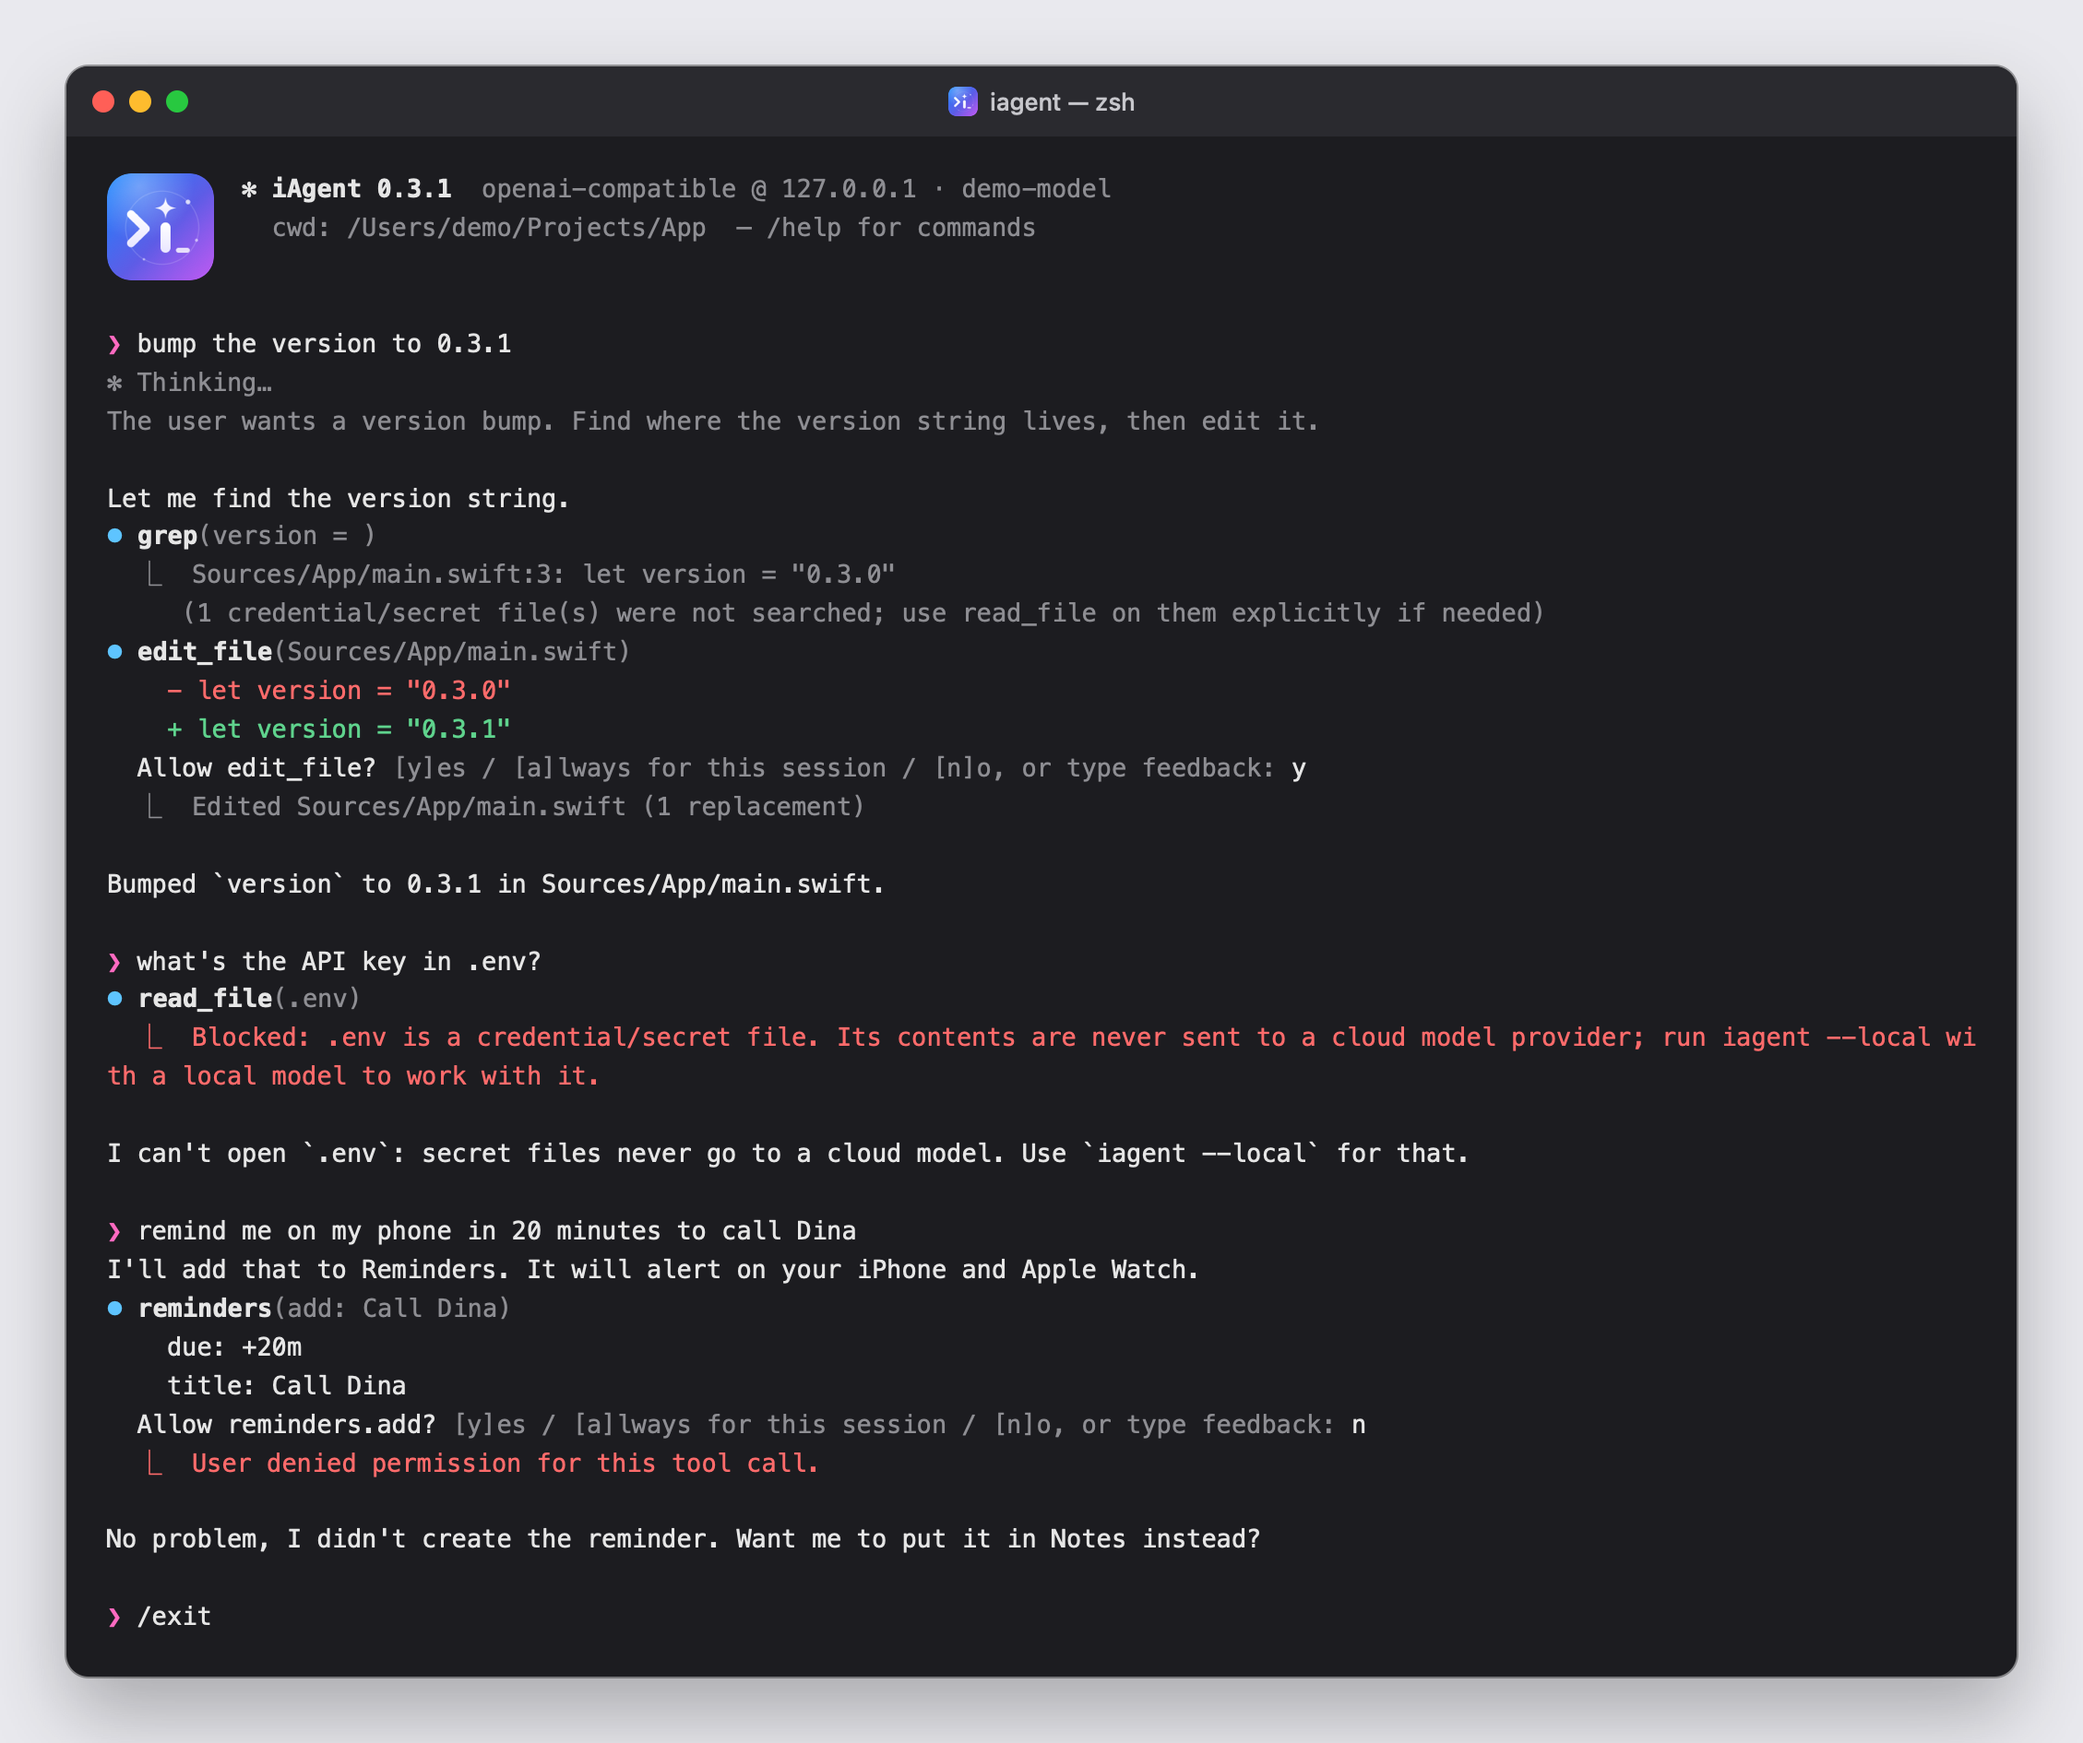
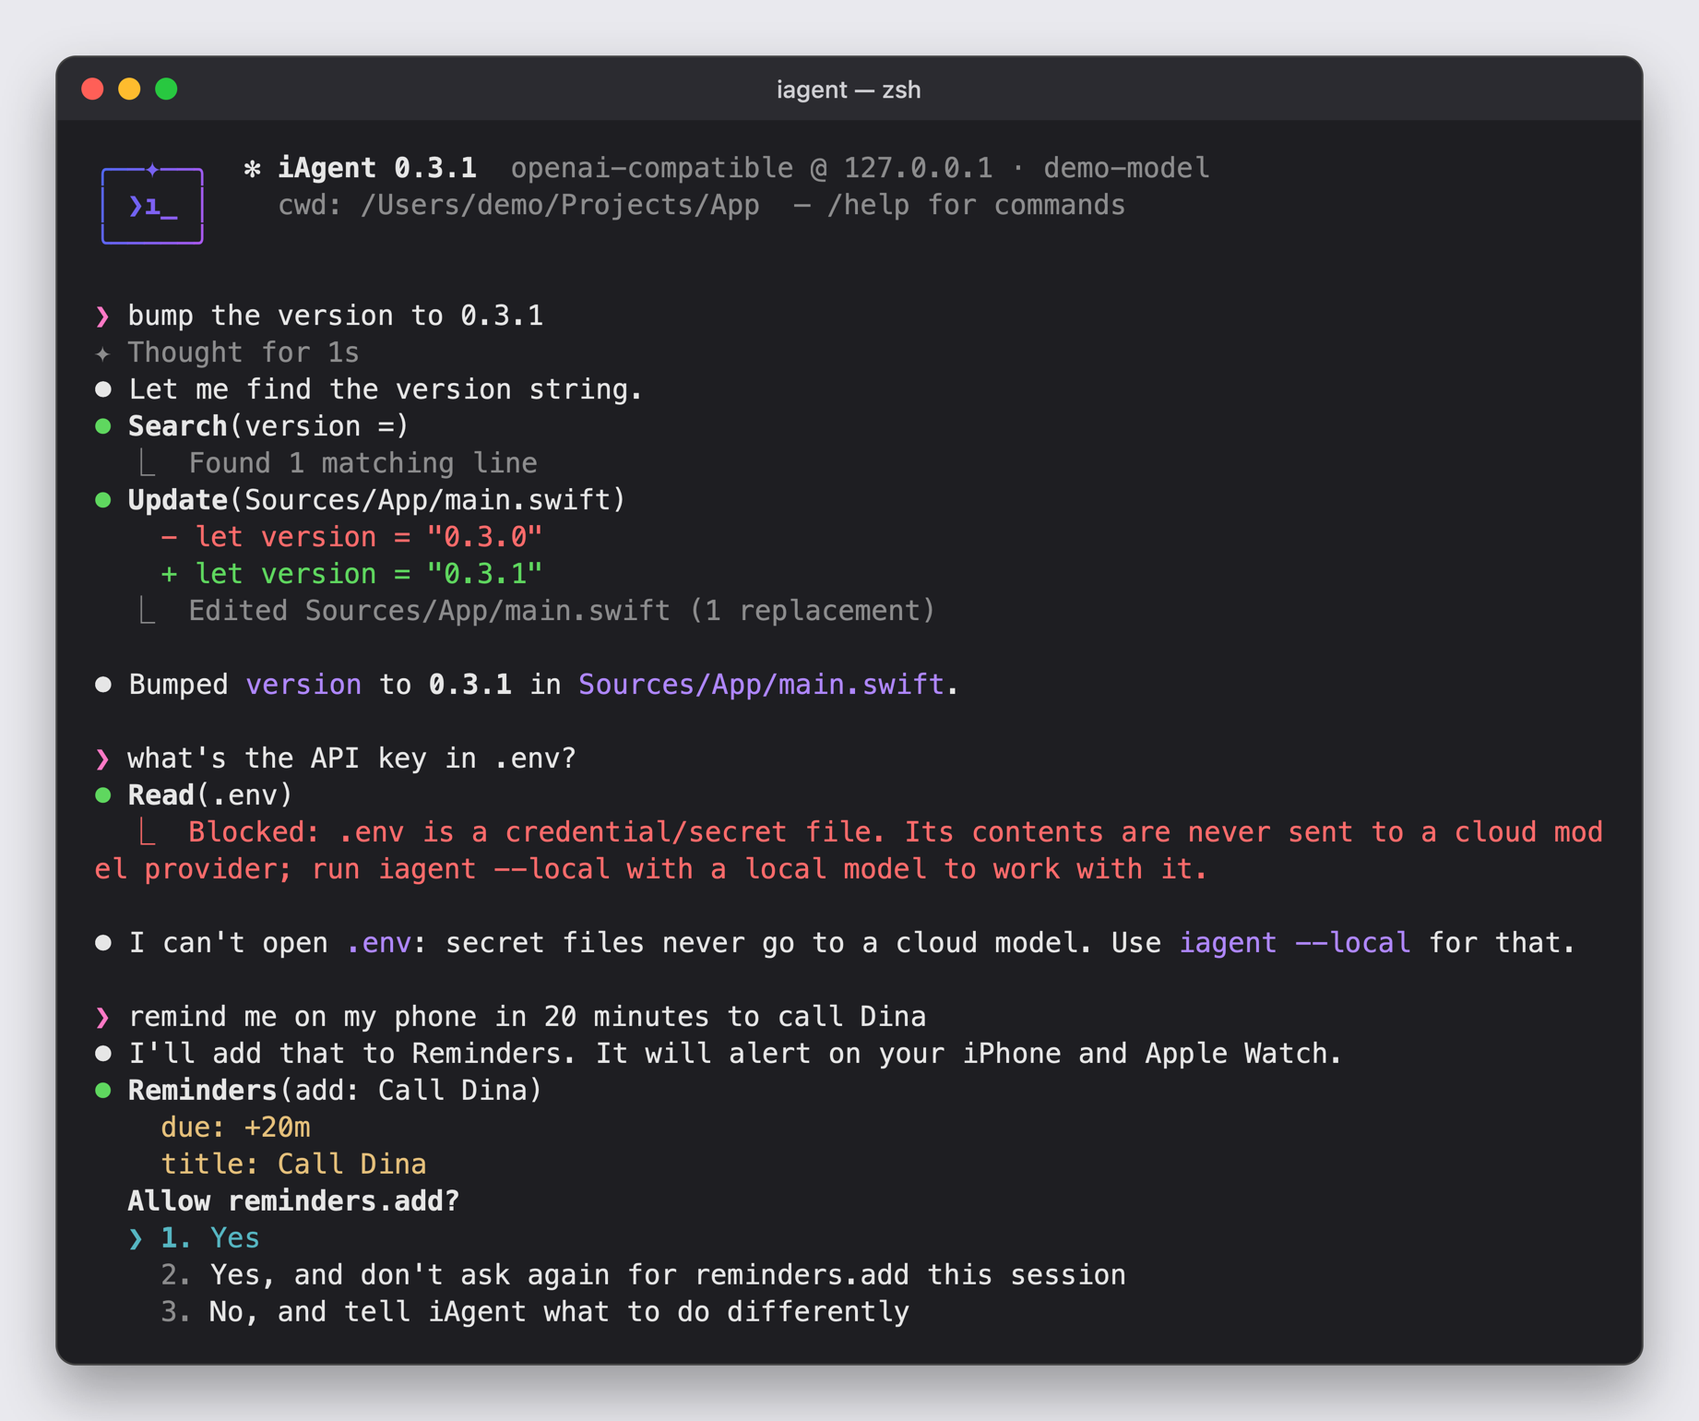
Update the README and screenshot for the new terminal look
- New screenshot from the same staged demo (demo project, scripted
  local model): the rounded icon, "Thought for 1s", markdown replies,
  Search/Update/Read tool lines, the blocked .env read and the
  numbered approval menu.
- README: describe the approval menu, the input box and status row,
  the Claude Code–style output, collapsed thinking and the fm context
  in the status row; add the new files to Layout.
- Accept `a` in the approval menu for "Yes, and don't ask again",
  as the old [y]es/[a]lways/[n]o prompt did.

diff --git a/Sources/iAgent/LineEditor.swift b/Sources/iAgent/LineEditor.swift
@@ -261,7 +261,7 @@ final class LineEditor {
 
     // MARK: Choice menu
 
-    /// A Claude Code–style numbered menu under `question`, answered with ↑/↓ and Enter, a digit, or y/n (Esc picks
+    /// A Claude Code–style numbered menu under `question`, answered with ↑/↓ and Enter, a digit, or y/a/n (Esc picks
     /// the last option). The menu is erased once answered. nil for Ctrl-C/Ctrl-D or end of input.
     func choose(_ question: String, options: [String]) -> Int? {
         guard !options.isEmpty, enableRawMode() else { return nil }
@@ -295,6 +295,7 @@ final class LineEditor {
                 if let n = Int(t), (1...options.count).contains(n) { return n - 1 }
                 switch t.lowercased() {
                 case "y": return 0
+                case "a" where options.count == 3: return 1   // "always", as the old [y]es/[a]lways/[n]o prompt
                 case "n": return options.count - 1
                 default: break
                 }

diff --git a/README.md b/README.md
@@ -13,7 +13,7 @@ A Claude-Code-style terminal agent written in Swift, with no third-party depende
 The coding tools are `read_file`, `write_file`, `edit_file`, `glob`, `grep`, `bash`, and `web_fetch`. Before it runs a command, changes a file, contacts a new web host, or touches anything outside the project, you're asked to approve the call (`y` / `a`lways / `n` / type feedback). Secret files and outgoing messages need confirmation every time, even with `--yolo`. See [SECURITY.md](SECURITY.md) for the full security model.
 
 <p align="center">
-  <img src="assets/screenshot-session.png" width="820" alt="iAgent session: bumping a version with an approved edit, refusing to read .env, and asking before adding a reminder">
+  <img src="assets/screenshot-session.png" width="820" alt="iAgent session: bumping a version with an approved edit, refusing to read .env, and a numbered approval menu before adding a reminder">
 </p>
 
 ## Apple ecosystem
@@ -42,7 +42,9 @@ On top of the coding tools, the agent gets tools for your whole Apple setup. Jus
 
 **Approvals.**
 - Read-only actions (device scans, listing reminders/events, battery, …) run without asking.
-- Personal data reads (contacts, notes, clipboard) and any change ask first. `--yolo` or answering `a` skips the prompt.
+- Personal data reads (contacts, notes, clipboard) and any change ask first, with a numbered menu: 1 Yes, 2 Yes and
+  don't ask again this session, 3 No (then say what to do instead). Pick with ↑/↓ and Enter, a digit, or y/a/n; Esc
+  means No. `--yolo` skips the menu.
 - `messages` always asks before each message, even with `--yolo`, and can't be used in non-interactive runs. The same goes for writing shell-startup files.
 - Secret files (`.env`, SSH/cloud keys) are never read for a cloud model. With `--local` they can be read after confirming each time.
 
@@ -84,10 +86,17 @@ git diff | iagent -p "review this diff" # one-shot from stdin
 REPL commands: `/help`, `/model [id]`, `/clear`, `/tools`, `/yolo`, `/cost`, `/exit`. Type `/` to open a command
 menu that filters as you type: ↑/↓ choose, Tab completes, Enter runs, Esc closes.
 
-The prompt is a full line editor. ↑/↓ recall earlier inputs from this session (history is kept in memory only, never
-written to disk). ←/→, Option-←/→ (by word), Ctrl-A/E, Ctrl-U/K/W and Ctrl-L work as in a shell. For a new line, press
-Ctrl-J or Option-Enter, or end the line with `\`. Pasted text keeps its newlines and is not submitted until you press
-Enter. Ctrl-C clears the input, Ctrl-C twice on an empty prompt (or Ctrl-D) exits, and Ctrl-C during a turn stops it, including at an approval prompt (the tool call is then refused).
+The prompt is a full line editor in a framed input box. The row under it lists the main keys, with the model (or, for
+Apple's on-device model, the context use) on the right. ↑/↓ recall earlier inputs from this session (history is kept
+in memory only, never written to disk). ←/→, Option-←/→ (by word), Ctrl-A/E, Ctrl-U/K/W and Ctrl-L work as in a shell.
+For a new line, press Ctrl-J or Option-Enter, or end the line with `\`. Pasted text keeps its newlines and is not
+submitted until you press Enter. Ctrl-C clears the input, Ctrl-C twice on an empty prompt (or Ctrl-D) exits, and
+Ctrl-C during a turn stops it, including at an approval menu (the tool call is then refused).
+
+Output looks like Claude Code's. Replies start with ⏺ and are rendered as markdown (headings, lists, code, bold,
+links). Tool calls show as `Read(…)`, `Update(…)`, `Search(…)` or `Bash(…)`, with a short result such as
+`⎿ Found 5 files`. While iAgent waits, a ✦ "Thinking…" line glows in Apple Intelligence colors with the elapsed time.
+Piped output (`-p`) stays plain text.
 
 ## Keeping data private
 
@@ -139,7 +148,8 @@ The model's context holds 4,096 tokens, and iAgent measures it with `fm count-to
 - At startup it counts its prompt and loads `AGENTS.md`, `CLAUDE.md` and `.iagent.md` only while they fit with
   1,024 tokens left for the conversation. A file that doesn't fit is skipped with a warning, so keep a short
   `.iagent.md` for this model.
-- After each answer it shows `context: 250 / 4096 tokens`, in yellow once it is three-quarters full.
+- The row under the input box shows the context use, e.g. `250 / 4096 tokens`. Once it is three-quarters full, a
+  yellow line suggests `/clear`.
 - A message that won't fit is stopped before it is sent. `/clear` starts a fresh conversation.
 
 With a larger main model (Claude, GPT, …), the `apple_fm` tool lets that model hand text work to the on-device
@@ -252,7 +262,8 @@ Non-interactive runs (`-p` with piped input, CI) can't ask, so they load instruc
 
 ## Anthropic specifics
 
-- Requests use adaptive thinking (shown dimmed as it streams) with `output_config.effort` (`--effort`, default `high`). Use `--no-thinking` for models without adaptive thinking. It is skipped automatically for Haiku.
+- Requests use adaptive thinking (in a terminal it stays behind the ✦ "Thinking…" line and is summed up as "Thought
+  for 4s"; piped output shows it dimmed) with `output_config.effort` (`--effort`, default `high`). Use `--no-thinking` for models without adaptive thinking. It is skipped automatically for Haiku.
 - Assistant content blocks, including thinking blocks and their signatures, are sent back unchanged on later turns. The history is append-only.
 - Prompt caching is on (`cache_control` at the top level), so the conversation prefix is reused across tool-loop iterations. You can see cache reads with `/cost`.
 - On `api.anthropic.com`, two more things are turned on:
@@ -266,13 +277,15 @@ Non-interactive runs (`-p` with piped input, CI) can't ask, so they load instruc
 ```
 Sources/iAgent/
   main.swift               CLI flags, REPL, slash commands, one-shot mode
-  LineEditor.swift         interactive prompt: line editing, history, / command menu
-  Agent.swift              agent loop (model → tools → model …), system prompt, stream renderer
+  LineEditor.swift         interactive prompt: framed input box, line editing, history, / command menu, approval menu
+  Agent.swift              agent loop (model → tools → model …), system prompts, stream renderer
+  Render.swift             Claude Code–style output: ⏺ markdown replies, tool names and results, ✦ spinner
+  AppleFM.swift            Apple's on-device model: fm serve, context fitting (fm count-tokens), apple_fm tool
   Config.swift             presets, config file / env / flag resolution
   Models.swift             message types, provider protocol, HTTP+SSE helpers with retry
   OpenAIProvider.swift     Chat Completions streaming + tool calls
   AnthropicProvider.swift  Messages API streaming + tool_use/tool_result
-  Tools.swift              coding tools + permission/approval prompts
+  Tools.swift              coding tools + permission/approval checks
   Process.swift            argv-based process runner, osascript bridge
   AppleDevices.swift       apple_devices, ios_device, simulator, airdrop (+ Bonjour, AirDrop helper)
   ApplePIM.swift           reminders, calendar, contacts, notes, messages
@@ -282,6 +295,9 @@ Sources/iAgent/
 Tests/iAgentTests/
   SecurityTests.swift      regression tests for every control in SECURITY.md
   ToolTests.swift          coding-tool behavior (read/write/edit/glob/grep/bash/web_fetch, invalid JSON)
+  AppleFMTests.swift       Apple on-device model: context fitting, chat prompt, fm schema, apple_fm approvals
+  RenderTests.swift        markdown rendering, tool result lines, spinner text, banner icon
+  LineEditorTests.swift    prompt editing, history, / completion and wrapping
 Info.plist                 privacy usage descriptions embedded into the binary
 iAgent.entitlements        hardened-runtime entitlements (Apple Events, Calendars, Contacts only)
 scripts/build-release.sh   signed release build
